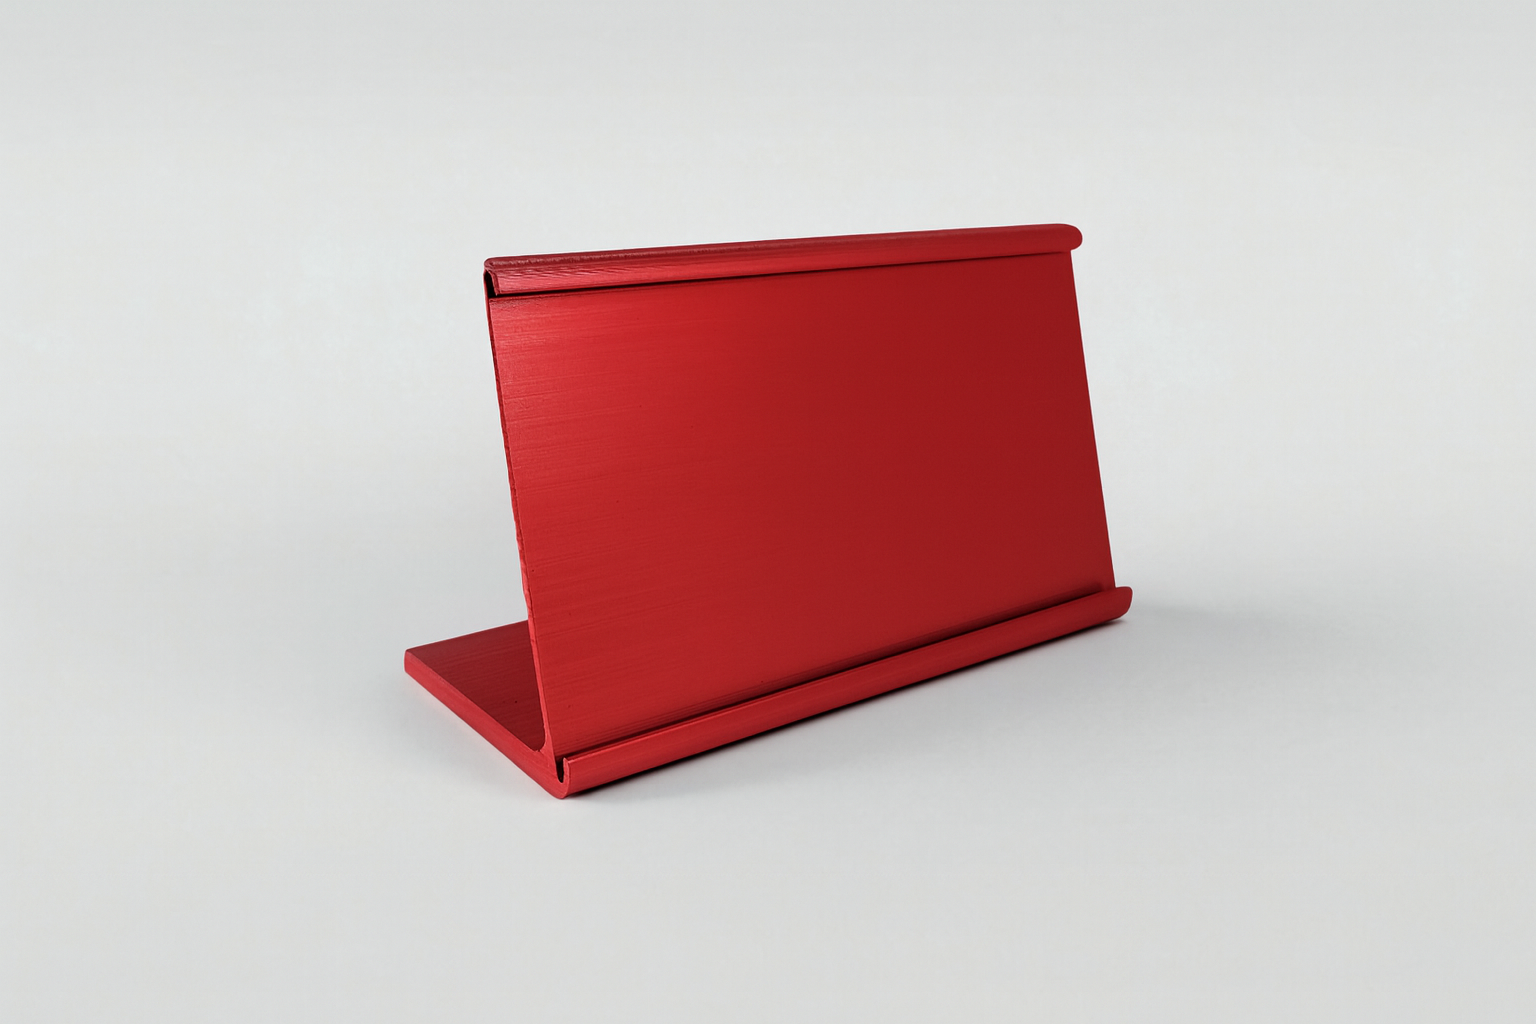
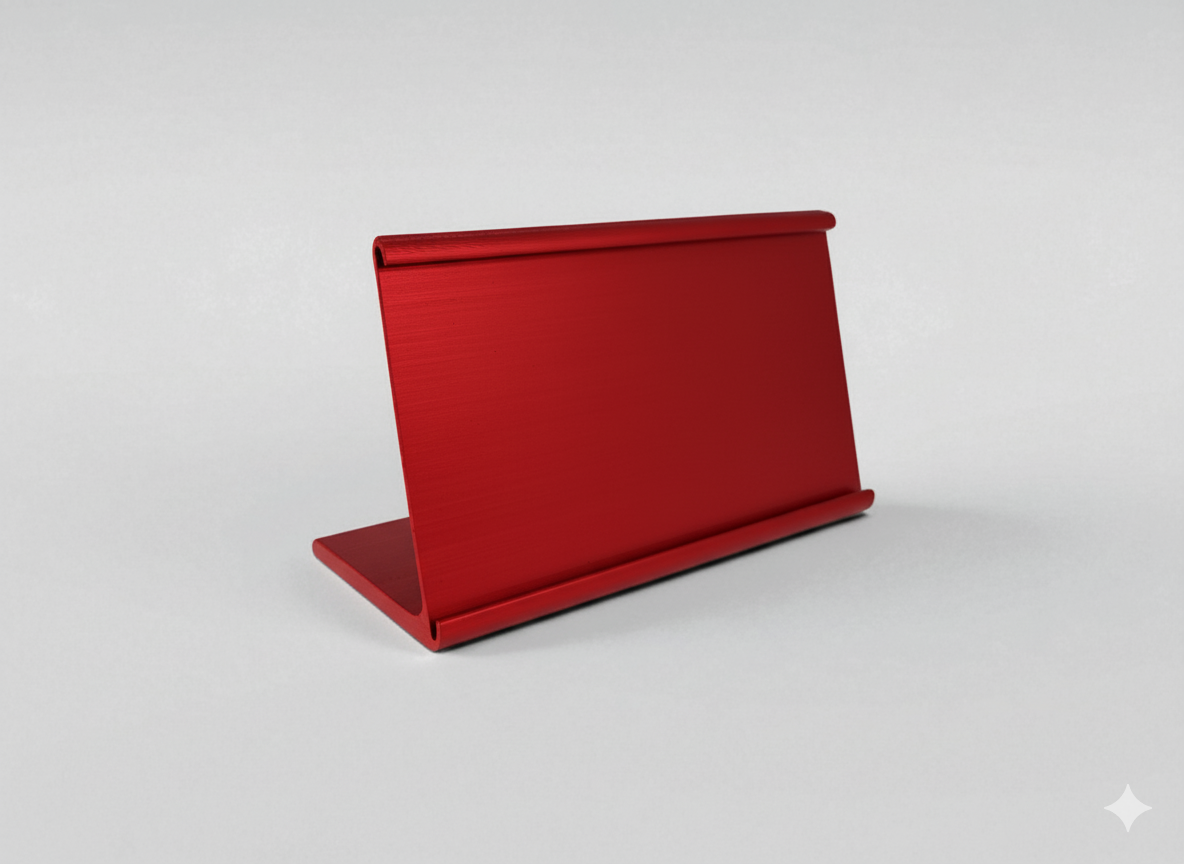
Ver_2 수정

Changed region(s): [[0.25, 0.2188, 0.75, 0.7812]]

diff --git a/src/components/Carousel.jsx b/src/components/Carousel.jsx
@@ -1,10 +1,12 @@
 import { useEffect, useRef, useState, useCallback } from 'react';
 
 // items: Array<{ src: string, alt?: string }>
-export default function Carousel({ items = [], intervalMs = 3000, captionMode = 'overlay', captionClassName = '', onIndexChange }) {
+export default function Carousel({ items = [], intervalMs = 3000, captionMode = 'overlay', captionClassName = '', onIndexChange, variant = 'fade' }) {
   const [index, setIndex] = useState(0);
   const [isPlaying, setIsPlaying] = useState(true);
   const containerRef = useRef(null);
+  const viewportRef = useRef(null);
+  const [viewportWidth, setViewportWidth] = useState(0);
   const count = items.length;
 
   const next = useCallback(() => setIndex((i) => (i + 1) % count), [count]);
@@ -79,6 +81,15 @@ export default function Carousel({ items = [], intervalMs = 3000, captionMode = 
     };
   }, [next, prev]);
 
+  // measure viewport for slide variant to avoid percent math issues
+  useEffect(() => {
+    if (variant !== 'slide') return;
+    const measure = () => setViewportWidth(viewportRef.current?.clientWidth || containerRef.current?.clientWidth || 0);
+    measure();
+    window.addEventListener('resize', measure);
+    return () => window.removeEventListener('resize', measure);
+  }, [variant]);
+
   if (!count) return null;
 
   return (
@@ -89,18 +100,43 @@ export default function Carousel({ items = [], intervalMs = 3000, captionMode = 
       aria-roledescription="carousel"
       aria-label="이미지 슬라이드"
     >
-      <div className="relative h-full w-full overflow-hidden rounded-lg sm:rounded-xl bg-white">
-        {items.map((item, i) => (
-          <img
-            key={i}
-            src={item.src}
-            alt={item.alt || ''}
-            width={2432}
-            height={1442}
-            className={`absolute inset-0 z-10 h-full w-full object-cover rounded-lg sm:rounded-xl shadow-2xl ring-1 ring-gray-900/10 transition-all duration-500 ease-[cubic-bezier(.2,.8,.2,1)] will-change-transform ${i === index ? 'opacity-100 scale-100 visible' : 'opacity-0 scale-95 invisible'}`}
-            loading={i === 0 ? 'eager' : 'lazy'}
-          />
-        ))}
+      {/* Viewport */}
+      <div ref={viewportRef} className="relative h-full w-full overflow-hidden rounded-lg sm:rounded-xl bg-white">
+        {variant === 'slide' ? (
+          // Track: slides horizontally
+          <div
+            className="flex h-full transition-transform duration-500 ease-[cubic-bezier(.2,.8,.2,1)] will-change-transform"
+            style={{ transform: `translateX(-${index * viewportWidth}px)` }}
+          >
+            {items.map((item, i) => (
+              <div key={i} className="h-full w-full shrink-0 grow-0 basis-full relative">
+                <img
+                  src={item.src}
+                  alt={item.alt || ''}
+                  width={2432}
+                  height={1442}
+                  className="absolute inset-0 z-10 h-full w-full object-cover rounded-lg sm:rounded-xl shadow-2xl ring-1 ring-gray-900/10"
+                  loading={i === 0 ? 'eager' : 'lazy'}
+                />
+              </div>
+            ))}
+          </div>
+        ) : (
+          // Fade/scale between stacked items (default)
+          <>
+            {items.map((item, i) => (
+              <img
+                key={i}
+                src={item.src}
+                alt={item.alt || ''}
+                width={2432}
+                height={1442}
+                className={`absolute inset-0 z-10 h-full w-full object-cover rounded-lg sm:rounded-xl shadow-2xl ring-1 ring-gray-900/10 transition-all duration-500 ease-[cubic-bezier(.2,.8,.2,1)] will-change-transform ${i === index ? 'opacity-100 scale-100 visible' : 'opacity-0 scale-95 invisible'}`}
+                loading={i === 0 ? 'eager' : 'lazy'}
+              />
+            ))}
+          </>
+        )}
       </div>
 
       {/* Caption: overlay mode */}

diff --git a/src/components/FeatureSection.jsx b/src/components/FeatureSection.jsx
@@ -4,7 +4,7 @@ import Carousel from './Carousel';
 
 const gradientTextClass = "bg-gradient-to-r from-green-300 via-blue-500 to-purple-600 text-transparent bg-clip-text";
 
-const FeatureSection = ({ feature }) => {
+const FeatureSection = ({ feature, variant = 'fade' }) => {
   const animatedItem = useScrollFadeIn();
   const isDark = feature.theme === 'dark';
   const bgColor = isDark ? 'bg-black' : 'bg-gray-50';
@@ -55,6 +55,7 @@ const FeatureSection = ({ feature }) => {
             <Carousel
               items={items}
               captionMode="none"
+              variant={variant}
               onIndexChange={(i, it) => setCaption(pickWithDefault(it, i))}
             />
           </div>

diff --git a/src/content.jsx b/src/content.jsx
@@ -59,7 +59,7 @@ const CONTENT = {
         </>
       ),
       images: [
-        { src: "Silver.jpg", alt: "실버 색상 이미지", label: "Silver — 정제된 메탈 감성." },
+        { src: "Silver.png", alt: "실버 색상 이미지", label: "Silver — 정제된 메탈 감성." },
         { src: "Red.png", alt: "레드 색상 이미지", label: "Red — 공간을 밝히는 포인트." },
         { src: "Green.png", alt: "그린 색상 이미지", label: "Green — 차분한 균형감." },
         { src: "Yellow.png", alt: "옐로우 색상 이미지", label: "Yellow — 따뜻한 온기." },

diff --git a/src/App.jsx b/src/App.jsx
@@ -19,7 +19,7 @@ export default function App(){
       <Hero content={CONTENT.hero} />
       <KeySpecs content={CONTENT.keySpecs} />
       {CONTENT.features.flatMap((feature, index) => ([
-        <FeatureSection key={`feature-${index}`} feature={feature} />,
+        <FeatureSection key={`feature-${index}`} feature={feature} variant={index === 0 ? 'slide' : 'fade'} />,
         index === 0 && (
           <VideoScrubSection
             key="video-scrub"
